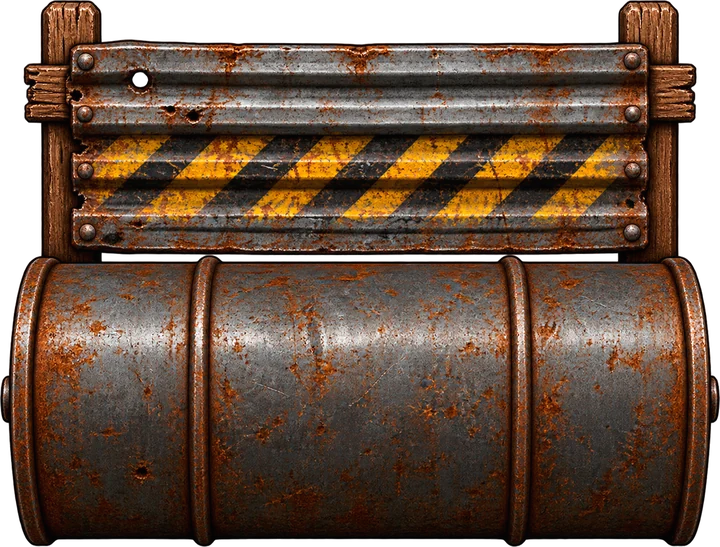
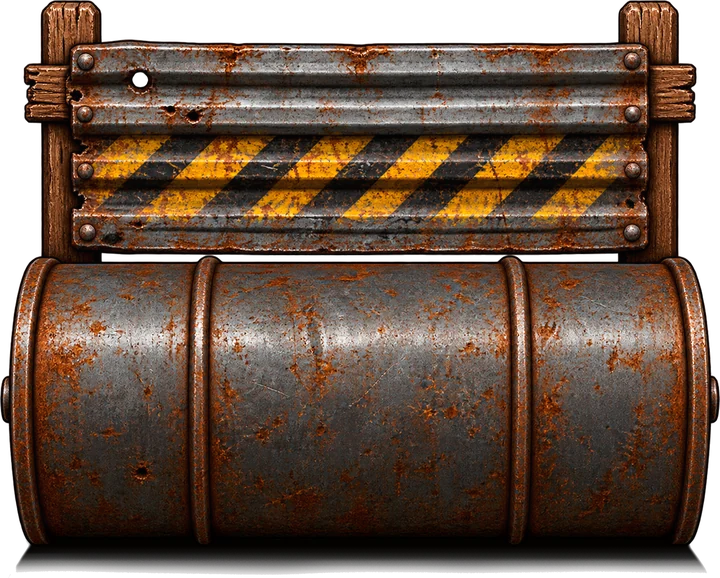
Бочка Утилизатора с тенью художника; статуэтка CLOSE рисуется поверх героя и кресла
Claude-Session: https://claude.ai/code/session_01XtpZhZabEYUcJEQKQgYpHe

diff --git a/src/client/art/desk-data.ts b/src/client/art/desk-data.ts
@@ -1,4 +1,4 @@
 /* Generated by tools/scene/build-scene.py — do not edit by hand. Aspect h/w of each desk and monitor picture. */
 export const ART_ASPECT: Record<string, number> = {"desk-001": 0.4031, "desk-002": 0.4173, "desk-003": 0.4043, "desk-004": 0.4094, "monitor-1": 1.0, "monitor-center": 0.7741, "monitor-left": 0.8226, "monitor-right": 0.7983};
 /** chairs in rig coordinates (1000×1400): drawn behind the seated character */
-export const CHAIR_FIT: Record<string, { x: number; y: number; w: number; h: number }> = {"chair-1": {"x": -21.5, "y": -30.0, "w": 1044, "h": 1396}, "chair-2": {"x": -0.5, "y": -30.0, "w": 1002, "h": 1396}, "chair-3": {"x": -3.5, "y": -30.0, "w": 1007, "h": 1396}, "chair-babafey": {"x": 49.5, "y": -30.0, "w": 901, "h": 1396}, "chair-bebyakyan": {"x": -22.0, "y": -30.0, "w": 1044, "h": 1396}, "chair-botsman": {"x": 94.5, "y": 10.0, "w": 811, "h": 1396}, "chair-datsik": {"x": 7.0, "y": -30.0, "w": 986, "h": 1396}, "chair-garkusha": {"x": -1.0, "y": -30.0, "w": 1002, "h": 1396}, "chair-kedr": {"x": 42.5, "y": -30.0, "w": 915, "h": 1396}, "chair-knyaz": {"x": 56.0, "y": -100.0, "w": 888, "h": 1396}, "chair-mugo": {"x": 81.0, "y": -30.0, "w": 838, "h": 1396}, "chair-pepe": {"x": 6.0, "y": -30.0, "w": 988, "h": 1396}, "chair-utilizator": {"x": 29.5, "y": 504.5, "w": 942, "h": 716}, "chair-vadim": {"x": 103.5, "y": 0.0, "w": 829, "h": 1396}, "chair-vodovoz": {"x": -0.5, "y": -30.0, "w": 1001, "h": 1396}};
+export const CHAIR_FIT: Record<string, { x: number; y: number; w: number; h: number }> = {"chair-1": {"x": -21.5, "y": -30.0, "w": 1044, "h": 1396}, "chair-2": {"x": -0.5, "y": -30.0, "w": 1002, "h": 1396}, "chair-3": {"x": -3.5, "y": -30.0, "w": 1007, "h": 1396}, "chair-babafey": {"x": 49.5, "y": -30.0, "w": 901, "h": 1396}, "chair-bebyakyan": {"x": -22.0, "y": -30.0, "w": 1044, "h": 1396}, "chair-botsman": {"x": 94.5, "y": 10.0, "w": 811, "h": 1396}, "chair-datsik": {"x": 7.0, "y": -30.0, "w": 986, "h": 1396}, "chair-garkusha": {"x": -1.0, "y": -30.0, "w": 1002, "h": 1396}, "chair-kedr": {"x": 42.5, "y": -30.0, "w": 915, "h": 1396}, "chair-knyaz": {"x": 56.0, "y": -100.0, "w": 888, "h": 1396}, "chair-mugo": {"x": 81.0, "y": -30.0, "w": 838, "h": 1396}, "chair-pepe": {"x": 6.0, "y": -30.0, "w": 988, "h": 1396}, "chair-utilizator": {"x": 29.5, "y": 504.5, "w": 942, "h": 756}, "chair-vadim": {"x": 103.5, "y": 0.0, "w": 829, "h": 1396}, "chair-vodovoz": {"x": -0.5, "y": -30.0, "w": 1001, "h": 1396}};

diff --git a/src/client/art/home-scene.tsx b/src/client/art/home-scene.tsx
@@ -139,9 +139,10 @@ export function HomeScene({ room = "basic", onPick, onHero, still, look, worn, p
       {!noDesk && (monitors & 2) !== 0 && <Obj id="monitorLeft" art="monitor-left" />}
       {!noDesk && (monitors & 1) !== 0 && <Obj id="monitorRight" art="monitor-right" />}
       {!noDesk && (monitors & 8) !== 0 && <Obj id="monitorOld" art="monitor-1" />}
-      {trophies.includes("statue-close") && (decor["statue-close"] ?? 0) !== -1 && <Obj id="statueClose" art="statue-close" />}
       </g>
       <RigViewport x={CHARACTER.x} y={CHARACTER.y} scale={CHARACTER.scale} seat={placedOf("chair", pieces, decor)} still={still} look={look} worn={worn} seatOnly={hideHero} edit={edit} />
+      {/* the trophy stands on the floor in front: over the hero and his chair */}
+      {trophies.includes("statue-close") && (decor["statue-close"] ?? 0) !== -1 && <g filter={focusHero ? "url(#scene-dim)" : undefined}><Obj id="statueClose" art="statue-close" /></g>}
       {onPick && <Hot id="monitors" onPick={onPick} />}
       {onPick && <Hot id="pc" onPick={onPick} />}
       {onHero && !hideHero && HERO_HOT.map((z, i) => (

diff --git a/src/client/preload.ts b/src/client/preload.ts
@@ -9,7 +9,7 @@ import { ASSET_FILES } from "./asset-manifest.ts";
 import { ROOM_BACKDROP, ROOM_BG } from "../content/home-scene.ts";
 
 /** cache-busting versions of redrawn art (bump when the picture changes) */
-export const ART_VER = { heroPart: 26, hair: 8, wear: 30, items: 41, pepe: 2, tattoo: 21, monitor: 2, chair: 9, shop: 3 } as const;
+export const ART_VER = { heroPart: 26, hair: 8, wear: 30, items: 41, pepe: 2, tattoo: 21, monitor: 2, chair: 10, shop: 3 } as const;
 
 /** the URL a screen really requests for a file from the manifest */
 export function usedUrl(path: string): string {
